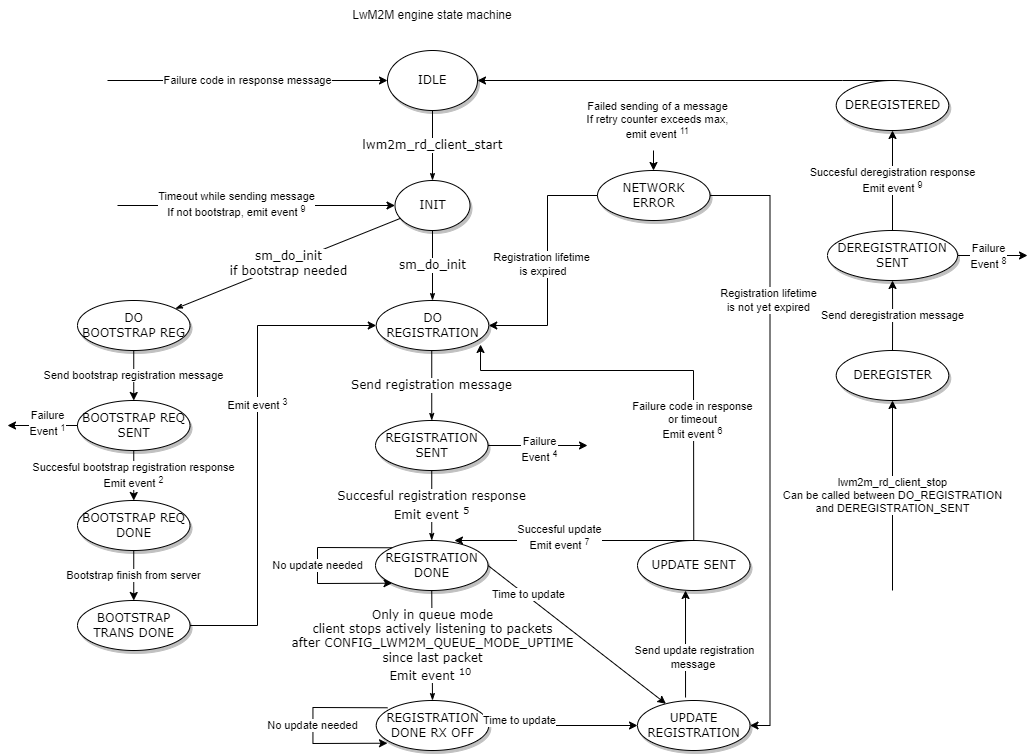
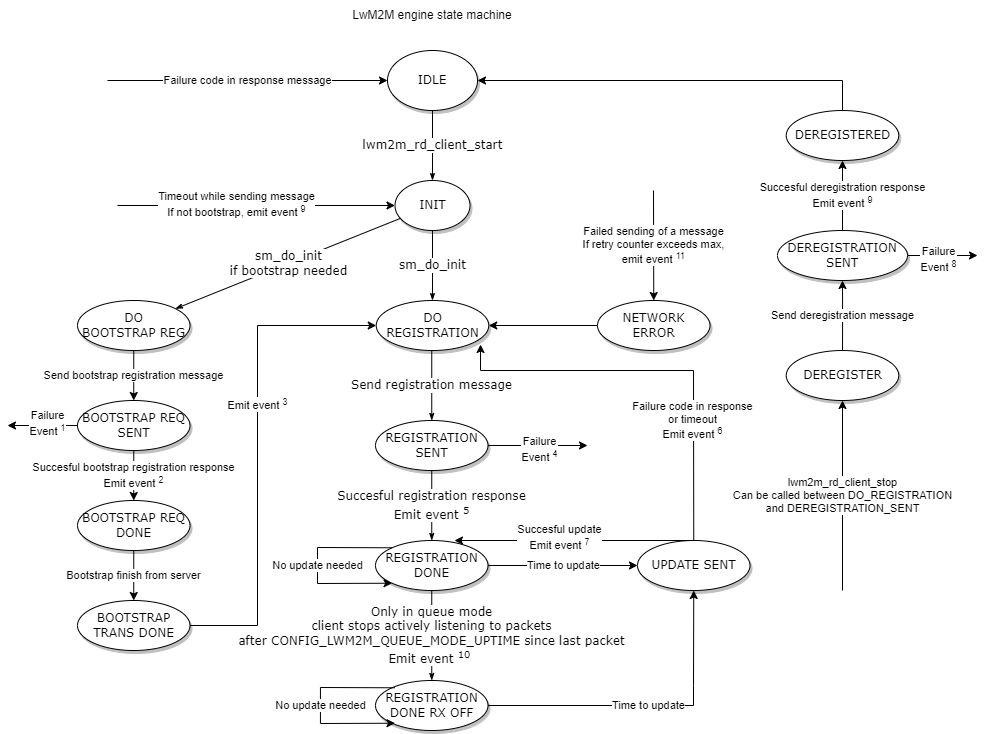
Revert "[nrf fromtree] net: lwm2m: Try to reuse registration in case of a network error"
This reverts commit 049ddd4865381287e374c423a0873c7ec01f9d04.

diff --git a/subsys/net/lib/lwm2m/lwm2m_rd_client.c b/subsys/net/lib/lwm2m/lwm2m_rd_client.c
@@ -93,7 +93,6 @@ enum sm_engine_state {
 	ENGINE_REGISTRATION_SENT,
 	ENGINE_REGISTRATION_DONE,
 	ENGINE_REGISTRATION_DONE_RX_OFF,
-	ENGINE_UPDATE_REGISTRATION,
 	ENGINE_UPDATE_SENT,
 	ENGINE_SUSPENDED,
 	ENGINE_DEREGISTER,
@@ -184,7 +183,7 @@ static void set_sm_state(uint8_t sm_state)
 		    client.engine_state <= ENGINE_DEREGISTER_SENT)) {
 		event = LWM2M_RD_CLIENT_EVENT_DISCONNECT;
 	} else if (sm_state == ENGINE_NETWORK_ERROR) {
-		lwm2m_socket_close(client.ctx);
+		lwm2m_engine_stop(client.ctx);
 		client.retry_delay = 1 << client.retries;
 		client.retries++;
 		if (client.retries > CONFIG_LWM2M_RD_CLIENT_MAX_RETRIES) {
@@ -208,16 +207,6 @@ static void set_sm_state(uint8_t sm_state)
 			lwm2m_close_socket(client.ctx);
 		}
 	}
-}
-
-static bool sm_is_bootstrap(void)
-{
-#if defined(CONFIG_LWM2M_RD_CLIENT_SUPPORT_BOOTSTRAP)
-	return (client.engine_state >= ENGINE_DO_BOOTSTRAP_REG &&
-		client.engine_state <= ENGINE_BOOTSTRAP_TRANS_DONE);
-#else
-	return false;
-#endif
 }
 
 static bool sm_is_registered(void)
@@ -292,15 +281,15 @@ static void socket_fault_cb(int error)
 {
 	LOG_ERR("RD Client socket error: %d", error);
 
-	if (sm_is_bootstrap()) {
-		client.ctx->sec_obj_inst = -1;
-		/* force full registration */
-		client.last_update = 0;
-	}
+	lwm2m_engine_stop(client.ctx);
 
-	lwm2m_socket_close(client.ctx);
+	client.ctx->sec_obj_inst = -1;
 
-	set_sm_state(ENGINE_NETWORK_ERROR);
+	/* Jump directly to the registration phase. In case there is no valid
+	 * security object for the LWM2M server, it will fall back to the
+	 * bootstrap procedure.
+	 */
+	set_sm_state(ENGINE_DO_REGISTRATION);
 }
 
 /* force re-update with remote peer */
@@ -988,6 +977,7 @@ static int sm_do_registration(void)
 static int sm_registration_done(void)
 {
 	int ret = 0;
+	bool update_objects;
 
 	/*
 	 * check for lifetime seconds - SECONDS_TO_UPDATE_EARLY
@@ -997,7 +987,29 @@ static int sm_registration_done(void)
 	    (client.trigger_update ||
 	     ((client.lifetime - SECONDS_TO_UPDATE_EARLY) <=
 	      (k_uptime_get() - client.last_update) / 1000))) {
-		set_sm_state(ENGINE_UPDATE_REGISTRATION);
+		update_objects = client.update_objects;
+		client.trigger_update = false;
+		client.update_objects = false;
+
+		ret = lwm2m_engine_connection_resume(client.ctx);
+		if (ret) {
+			lwm2m_engine_stop(client.ctx);
+			/* perform full registration */
+			set_sm_state(ENGINE_DO_REGISTRATION);
+			return ret;
+		}
+
+		ret = sm_send_registration(update_objects,
+					   do_update_reply_cb,
+					   do_update_timeout_cb);
+		if (!ret) {
+			set_sm_state(ENGINE_UPDATE_SENT);
+		} else {
+			LOG_ERR("Registration update err: %d", ret);
+			lwm2m_engine_stop(client.ctx);
+			/* perform full registration */
+			set_sm_state(ENGINE_DO_REGISTRATION);
+		}
 	}
 
 	if (IS_ENABLED(CONFIG_LWM2M_QUEUE_MODE_ENABLED) &&
@@ -1008,50 +1020,6 @@ static int sm_registration_done(void)
 	}
 
 	return ret;
-}
-
-static int update_registration(void)
-{
-	int ret;
-	bool update_objects;
-
-	update_objects = client.update_objects;
-	client.trigger_update = false;
-	client.update_objects = false;
-
-	ret = lwm2m_engine_connection_resume(client.ctx);
-	if (ret) {
-		return ret;
-	}
-
-	ret = sm_send_registration(update_objects,
-				   do_update_reply_cb,
-				   do_update_timeout_cb);
-	if (ret) {
-		LOG_ERR("Registration update err: %d", ret);
-		return ret;
-	}
-
-	return 0;
-}
-
-static int sm_update_registration(void)
-{
-	int ret;
-
-	ret = update_registration();
-	if (ret) {
-		LOG_ERR("Failed to update registration. Falling back to full registration");
-
-		lwm2m_engine_stop(client.ctx);
-		/* perform full registration */
-		set_sm_state(ENGINE_DO_REGISTRATION);
-		return ret;
-	}
-
-	set_sm_state(ENGINE_UPDATE_SENT);
-
-	return 0;
 }
 
 static int sm_do_deregister(void)
@@ -1112,8 +1080,6 @@ close_ctx:
 
 static void sm_do_network_error(void)
 {
-	int err;
-
 	if (--client.retry_delay > 0) {
 		return;
 	}
@@ -1125,24 +1091,7 @@ static void sm_do_network_error(void)
 	}
 #endif
 
-	if (!client.last_update || (k_uptime_get() - client.last_update) / 1000 > client.lifetime) {
-		/* do full registration as there is no active registration or lifetime exceeded */
-		set_sm_state(ENGINE_DO_REGISTRATION);
-		return;
-	}
-
-	err = lwm2m_socket_start(client.ctx);
-	if (err) {
-		LOG_ERR("Failed to start socket %d", err);
-		/*
-		 * keep this state until lifetime/retry count exceeds. Renew
-		 * sm state to set retry_delay etc ...
-		 */
-		set_sm_state(ENGINE_NETWORK_ERROR);
-		return;
-	}
-
-	set_sm_state(ENGINE_UPDATE_REGISTRATION);
+	set_sm_state(ENGINE_DO_REGISTRATION);
 }
 
 static void lwm2m_rd_client_service(struct k_work *work)
@@ -1193,10 +1142,6 @@ static void lwm2m_rd_client_service(struct k_work *work)
 		case ENGINE_REGISTRATION_DONE:
 		case ENGINE_REGISTRATION_DONE_RX_OFF:
 			sm_registration_done();
-			break;
-
-		case ENGINE_UPDATE_REGISTRATION:
-			sm_update_registration();
 			break;
 
 		case ENGINE_UPDATE_SENT:
